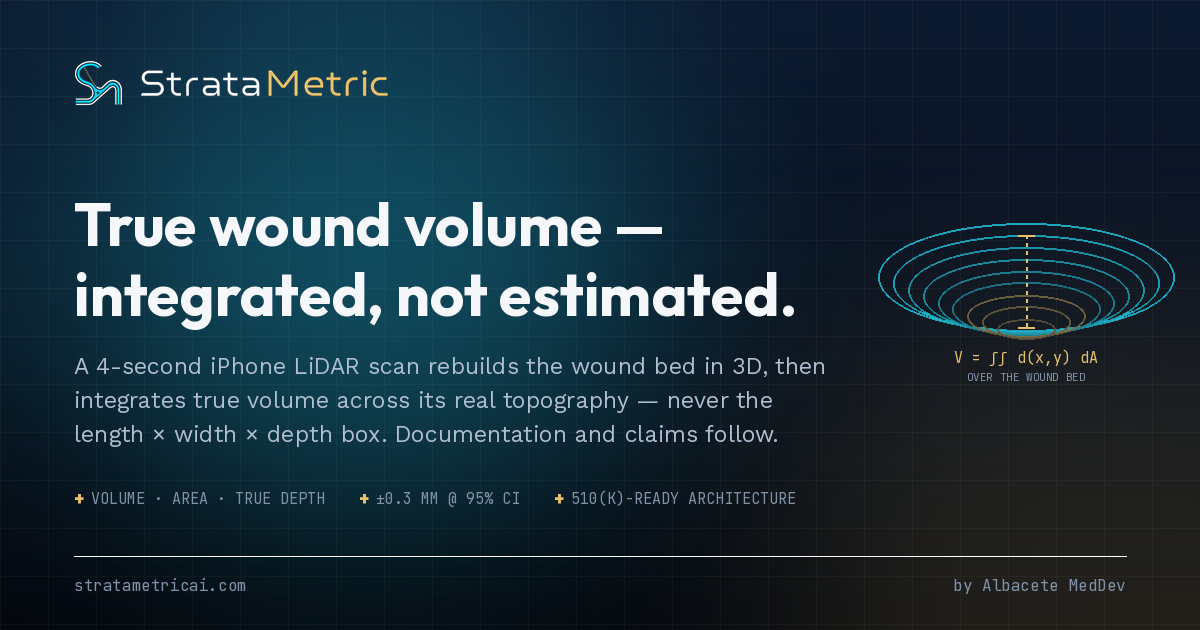
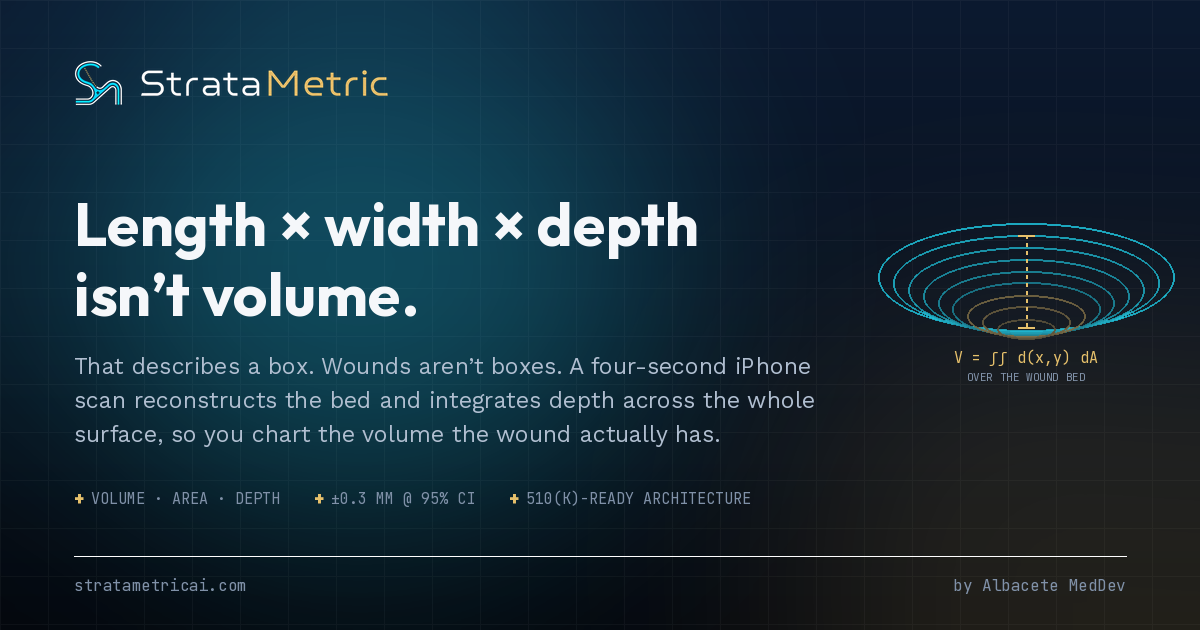
Rewrite the volume copy so it doesn't read as machine-written (#40)
The previous pass had the tells: "integrated, not estimated" (the X-not-Y
antithesis), an em dash in nearly every sentence, and trailing filler
("Documentation and claims follow"). It also explained around the point instead
of making it.

Lead with the claim itself. The card headline is now "Length × width × depth
isn't volume." — an argument a wound clinician already half-believes, which the
product then settles. Short declaratives, no antithesis construction, em dashes
only where one is actually doing work. Same voice applied to the hero, the
overview tile, and the og/search descriptions.

Also switched the card to typographic apostrophes.

Verified: lint, build clean; card and hero re-rendered and inspected.

Claude-Session: https://claude.ai/code/session_01WBmc8ntybPJEp4Ap6692cj

Changed region(s): [[0.0617, 0.573, 0.6783, 0.7238], [0.0617, 0.3016, 0.6783, 0.5429], [0.185, 0.7841, 0.6783, 0.8143]]

diff --git a/woundscan-web/src/app/layout.tsx b/woundscan-web/src/app/layout.tsx
@@ -13,10 +13,10 @@ const SITE = "https://stratametricai.com";
  * context, and "3D wound measurement" alone undersells what they'd be buying.
  */
 const SHARE_DESCRIPTION =
-  "A 4-second iPhone LiDAR scan rebuilds the wound bed in 3D, then integrates true volume across its real topography — never the length × width × depth box. Documentation, claims compliance, graft inventory and scheduling follow in one audit-ready portal.";
+  "Length × width × depth describes a box, and wounds aren't boxes. A four-second iPhone scan reconstructs the wound bed and integrates depth across the whole surface. Notes, claims checks and graft inventory come with it.";
 
 const SEARCH_DESCRIPTION =
-  "AI Wound Scan turns a 4-second iPhone LiDAR scan into objective, reproducible 3D wound measurement. Volume is integrated over the reconstructed wound bed — not approximated as length × width × depth — alongside surface area, true depth, perimeter and footprint, each reported with a 95% confidence interval. Audit-defensible documentation, claims compliance, UDI-traceable graft inventory, healing analytics and route planning in one portal for wound care teams.";
+  "Wound charts record length × width × depth, which describes a box. AI Wound Scan reconstructs the wound from a four-second iPhone LiDAR scan and integrates depth across the whole bed, returning volume, surface area, depth, perimeter and footprint with 95% confidence intervals. The same portal handles notes, claims and documentation checks, UDI-traceable graft inventory, healing analytics and visit routing for wound care teams.";
 
 const sora = Sora({
   subsets: ["latin"],
@@ -42,7 +42,7 @@ const dmSans = DM_Sans({
 export const metadata: Metadata = {
   metadataBase: new URL(SITE),
   title: {
-    default: "StrataMetric — True Wound Volume & 3D Measurement Platform",
+    default: "StrataMetric — 3D Wound Volume Measurement & Wound-Care Platform",
     template: "%s | StrataMetric",
   },
   description: SEARCH_DESCRIPTION,
@@ -71,7 +71,7 @@ export const metadata: Metadata = {
     googleBot: { index: true, follow: true, "max-image-preview": "large", "max-snippet": -1 },
   },
   openGraph: {
-    title: "AI Wound Scan — true wound volume, integrated not estimated",
+    title: "AI Wound Scan — wound volume from a four-second iPhone scan",
     description: SHARE_DESCRIPTION,
     siteName: "StrataMetric",
     url: SITE,
@@ -82,13 +82,13 @@ export const metadata: Metadata = {
         url: "/og-v2.png",
         width: 1200,
         height: 630,
-        alt: "StrataMetric AI Wound Scan — true wound volume integrated from the wound bed's own topography, with documentation, claims compliance and graft inventory in one portal.",
+        alt: "StrataMetric AI Wound Scan: length times width times depth isn't volume. A four-second iPhone scan reconstructs the wound bed and integrates depth across the whole surface.",
       },
     ],
   },
   twitter: {
     card: "summary_large_image",
-    title: "AI Wound Scan — true wound volume, integrated not estimated",
+    title: "AI Wound Scan — wound volume from a four-second iPhone scan",
     description: SHARE_DESCRIPTION,
     images: ["/og-v2.png"],
   },
@@ -151,7 +151,7 @@ const STRUCTURED_DATA = {
       publisher: { "@id": `${SITE}/#organization` },
       featureList: [
         "Four-second iPhone LiDAR wound capture",
-        "True wound volume integrated over the reconstructed wound bed (Simpson's rule over the depth field), not a length × width × depth approximation",
+        "Wound volume computed by integrating the depth field over the reconstructed wound bed (composite Simpson's rule), rather than a length × width × depth approximation",
         "Surface area, max and mean depth, perimeter and footprint area",
         "Every measurement reported with a 95% confidence interval",
         "Auto-generated, audit-defensible documentation",

diff --git a/woundscan-web/src/components/marketing/Hero.tsx b/woundscan-web/src/components/marketing/Hero.tsx
@@ -44,12 +44,12 @@ export function Hero() {
             className="mk-rise mt-6 max-w-xl text-base leading-relaxed text-ink-soft md:text-lg"
             style={{ "--rise-delay": "160ms" } as React.CSSProperties}
           >
-            StrataMetric&rsquo;s AI Wound Scan turns a four-second iPhone LiDAR scan into an objective,
-            reproducible 3D reconstruction — then integrates{" "}
-            <strong className="text-ink">true wound volume</strong> across the bed&rsquo;s own topography
-            rather than approximating it as length × width × depth. Surface area, depth and perimeter
-            come with it, each carrying a confidence interval, with audit-defensible documentation
-            generated in minutes at the point of care.
+            Wound charts record length × width × depth. That describes a box, and wounds
+            aren&rsquo;t boxes. AI Wound Scan reconstructs the wound from a four-second iPhone
+            scan and integrates depth across the whole bed, so you chart the{" "}
+            <strong className="text-ink">volume it actually has</strong> — with area, depth and
+            perimeter, each carrying a confidence interval. The note is written before you leave
+            the room.
           </p>
 
           <div

diff --git a/woundscan-web/src/components/marketing/AtAGlanceSection.tsx b/woundscan-web/src/components/marketing/AtAGlanceSection.tsx
@@ -14,8 +14,8 @@ const CAPABILITIES = [
   },
   {
     n: "02",
-    title: "Volume, integrated — not estimated",
-    body: "Most tools multiply length × width × depth and call it volume. The engine integrates the depth field across the whole wound bed, so an undermined or irregular wound reports the volume it actually has — with surface area, true depth and perimeter, each carrying a 95% confidence interval.",
+    title: "Volume the wound actually has",
+    body: "Most tools multiply length × width × depth and call it volume. The engine integrates the depth field across the whole bed instead, so an undermined or irregular wound reports what it really holds. Surface area, depth and perimeter come with it, each with a 95% confidence interval.",
   },
   {
     n: "03",

diff --git a/woundscan-web/scripts/generate-og.py b/woundscan-web/scripts/generate-og.py
@@ -116,16 +116,16 @@ d = ImageDraw.Draw(card)
 
 # ── Headline ──────────────────────────────────────────────────────────────
 y = 186
-for line in ["True wound volume —", "integrated, not estimated."]:
+for line in ["Length × width × depth", "isn’t volume."]:
     d.text((PAD, y), line, font=f_head, fill=INK)
     y += 70
 
 # ── Supporting line: names the WHOLE product, not just the scan ───────────
 y += 26
 for line in [
-    "A 4-second iPhone LiDAR scan rebuilds the wound bed in 3D, then",
-    "integrates true volume across its real topography — never the",
-    "length × width × depth box. Documentation and claims follow.",
+    "That describes a box. Wounds aren’t boxes. A four-second iPhone",
+    "scan reconstructs the bed and integrates depth across the whole",
+    "surface, so you chart the volume the wound actually has.",
 ]:
     d.text((PAD, y), line, font=f_sub, fill=INK_SOFT)
     y += 34
@@ -133,7 +133,7 @@ for line in [
 # ── Credential tags, matching the site's gold "+" instrument tags ─────────
 y += 34
 x = PAD
-for label in ["VOLUME · AREA · TRUE DEPTH", "±0.3 MM @ 95% CI", "510(K)-READY ARCHITECTURE"]:
+for label in ["VOLUME · AREA · DEPTH", "±0.3 MM @ 95% CI", "510(K)-READY ARCHITECTURE"]:
     d.text((x, y - 2), "+", font=f_plus, fill=GOLD)
     x += 17
     d.text((x, y), label, font=f_tag, fill=INK_MUTED)
